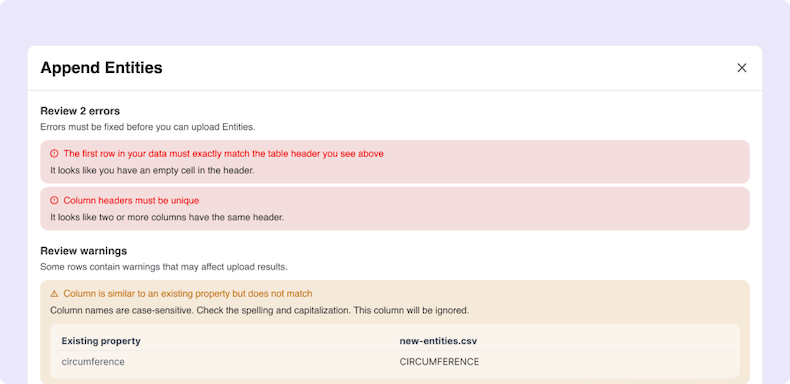
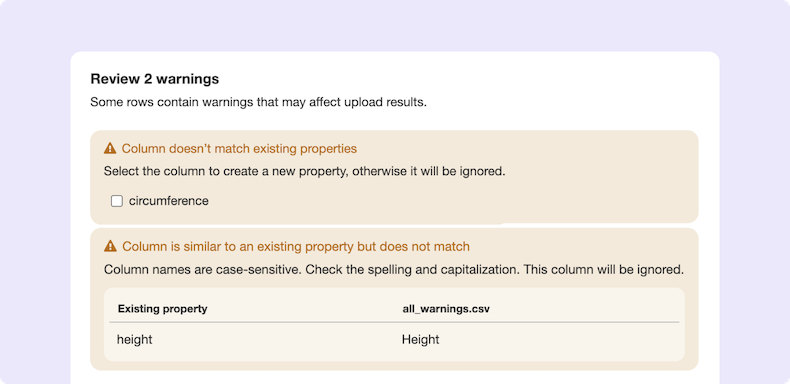
Updated images for modal

Changed region(s): [[0.0304, 0.25, 0.9722, 1.0], [0.0304, 0.1562, 0.2734, 0.2188], [0.9114, 0.1562, 0.9418, 0.1875]]

diff --git a/apps/central/karma.conf.js b/apps/central/karma.conf.js
@@ -63,7 +63,7 @@ module.exports = (config) => {
       // Images
       '/v1/config/public/hero-image': '/base/src/assets/images/whats-new/banner@1x.png',
       '/v1/config/public/logo': '/base/src/assets/images/odk-logo.png',
-      '/img/banner@1x.23f9a1f4.png': '/base/src/assets/images/whats-new/banner@1x.png', // Smaller resolution for circleCI test
+      '/img/banner@1x.d7ed244f.png': '/base/src/assets/images/whats-new/banner@1x.png', // Smaller resolution for circleCI test
       '/img/fullscreen.37a932a6.svg': '/base/src/assets/images/geojson-map/fullscreen.svg'
     },
     preprocessors: {
